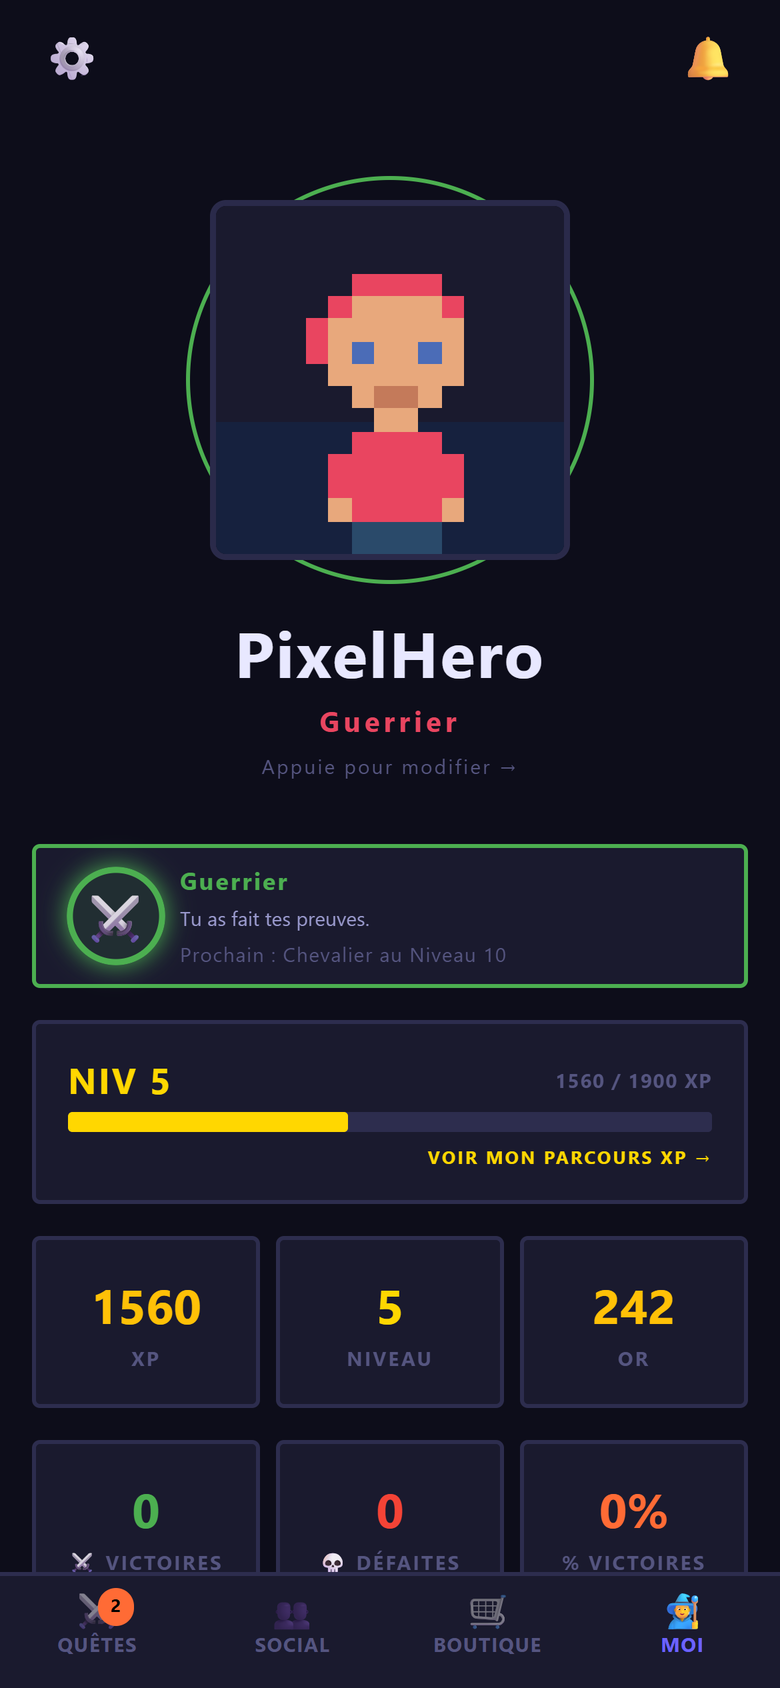
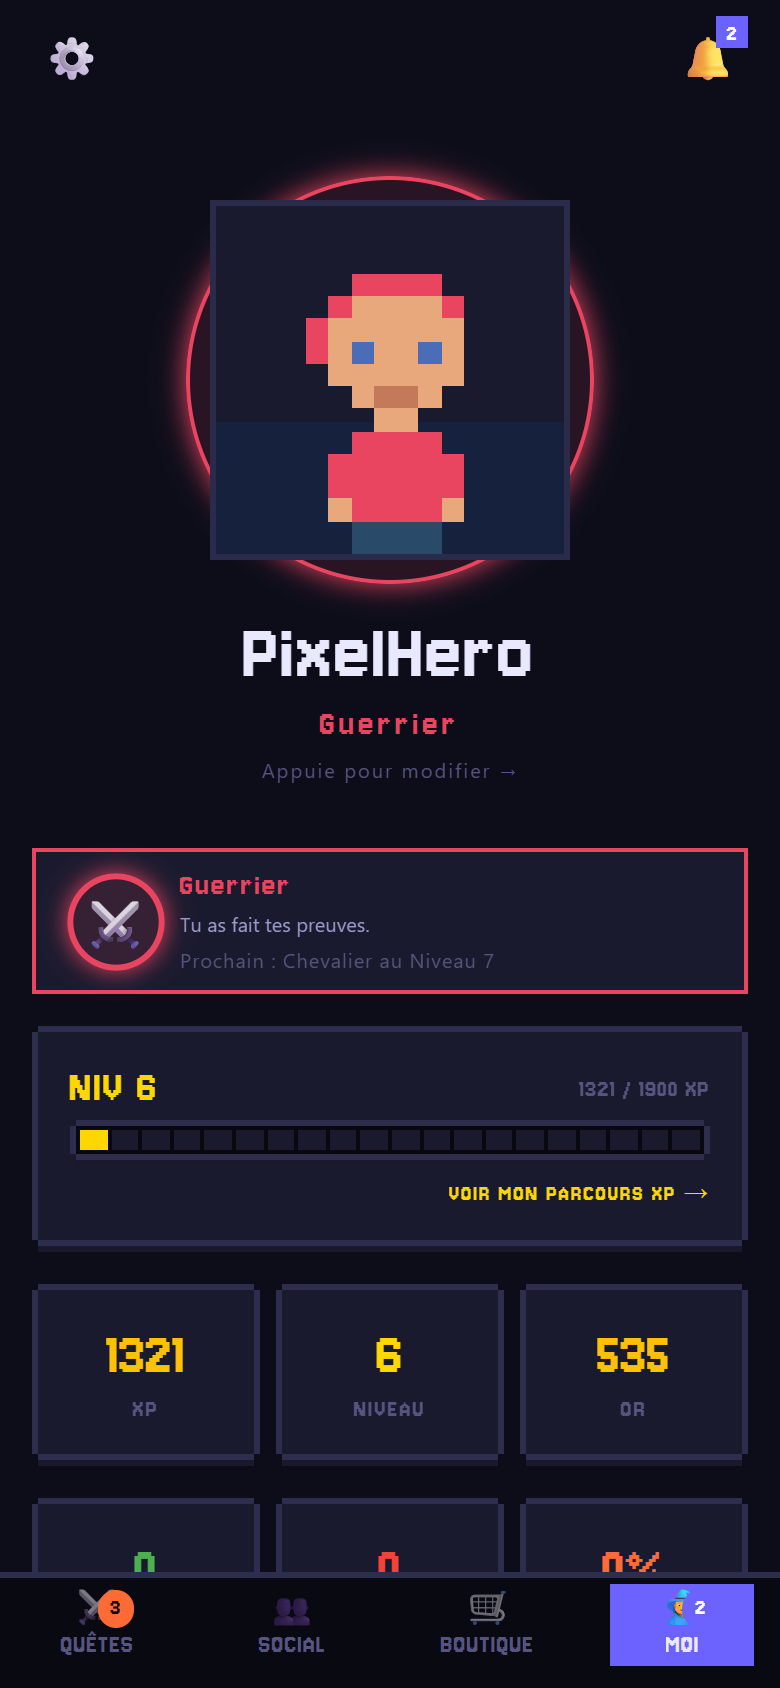
docs(marketing): reels and screenshots in the pixel art direction
App screenshots re-taken in the new art direction (ADR 011). Reel r10
now shows the bedtime habit that replaced the water one in the app
(r10-level-up-minuit), with its caption in the posting plan.

Claude-Session: https://claude.ai/code/session_01Eys7kWVc1zDTJfAqSJXv3r

diff --git a/marketing/launch-sprint.md b/marketing/launch-sprint.md
@@ -11,7 +11,7 @@ Objectif : publier **chaque jour** le même reel sur TikTok et Instagram (Reels)
 |---|---|---|---|
 | J-20 | `r1-ta-vie-est-un-rpg` | Tes habitudes méritent mieux qu'une checklist ⚔ Chaque jour tu valides tes quêtes, tu gagnes de l'XP et ton héros évolue. Tu le jouerais ? 👇 | #habitquest #habittracker #gamification #pixelart #routine |
 | J-19 | `r21-journee-parfaite` | 5 sur 5. Le petit bruit de la série qui continue 🔥 | #habitquest #discipline #productivité #routine #selfimprovement |
-| J-18 | `r10-level-up-eau` | Niveau 6 grâce à… de l'eau 💧 Même les petites habitudes comptent. | #habitquest #hydratation #habitudes #gamification #pov |
+| J-18 | `r10-level-up-minuit` | Niveau 6 grâce à… une nuit de sommeil 🌙 Même les petites habitudes comptent. | #habitquest #sommeil #habitudes #gamification #pov |
 | J-17 | `r7-missions-du-jour` | 3 nouvelles missions chaque matin. Tu les remplis juste en vivant ta journée 📜 | #habitquest #missionsdujour #rpg #routine #motivation |
 | J-16 | `r9-serie-14-jours` | 14 jours d'affilée = un palier 🔥 C'est quoi ta plus longue série ? 👇 | #habitquest #serie #discipline #habittracker #challenge |
 | J-15 | `r3-mon-heros-evolue` | Mon héros monte de niveau parce que moi aussi. | #habitquest #pixelart #levelup #gamer #selfimprovement |
